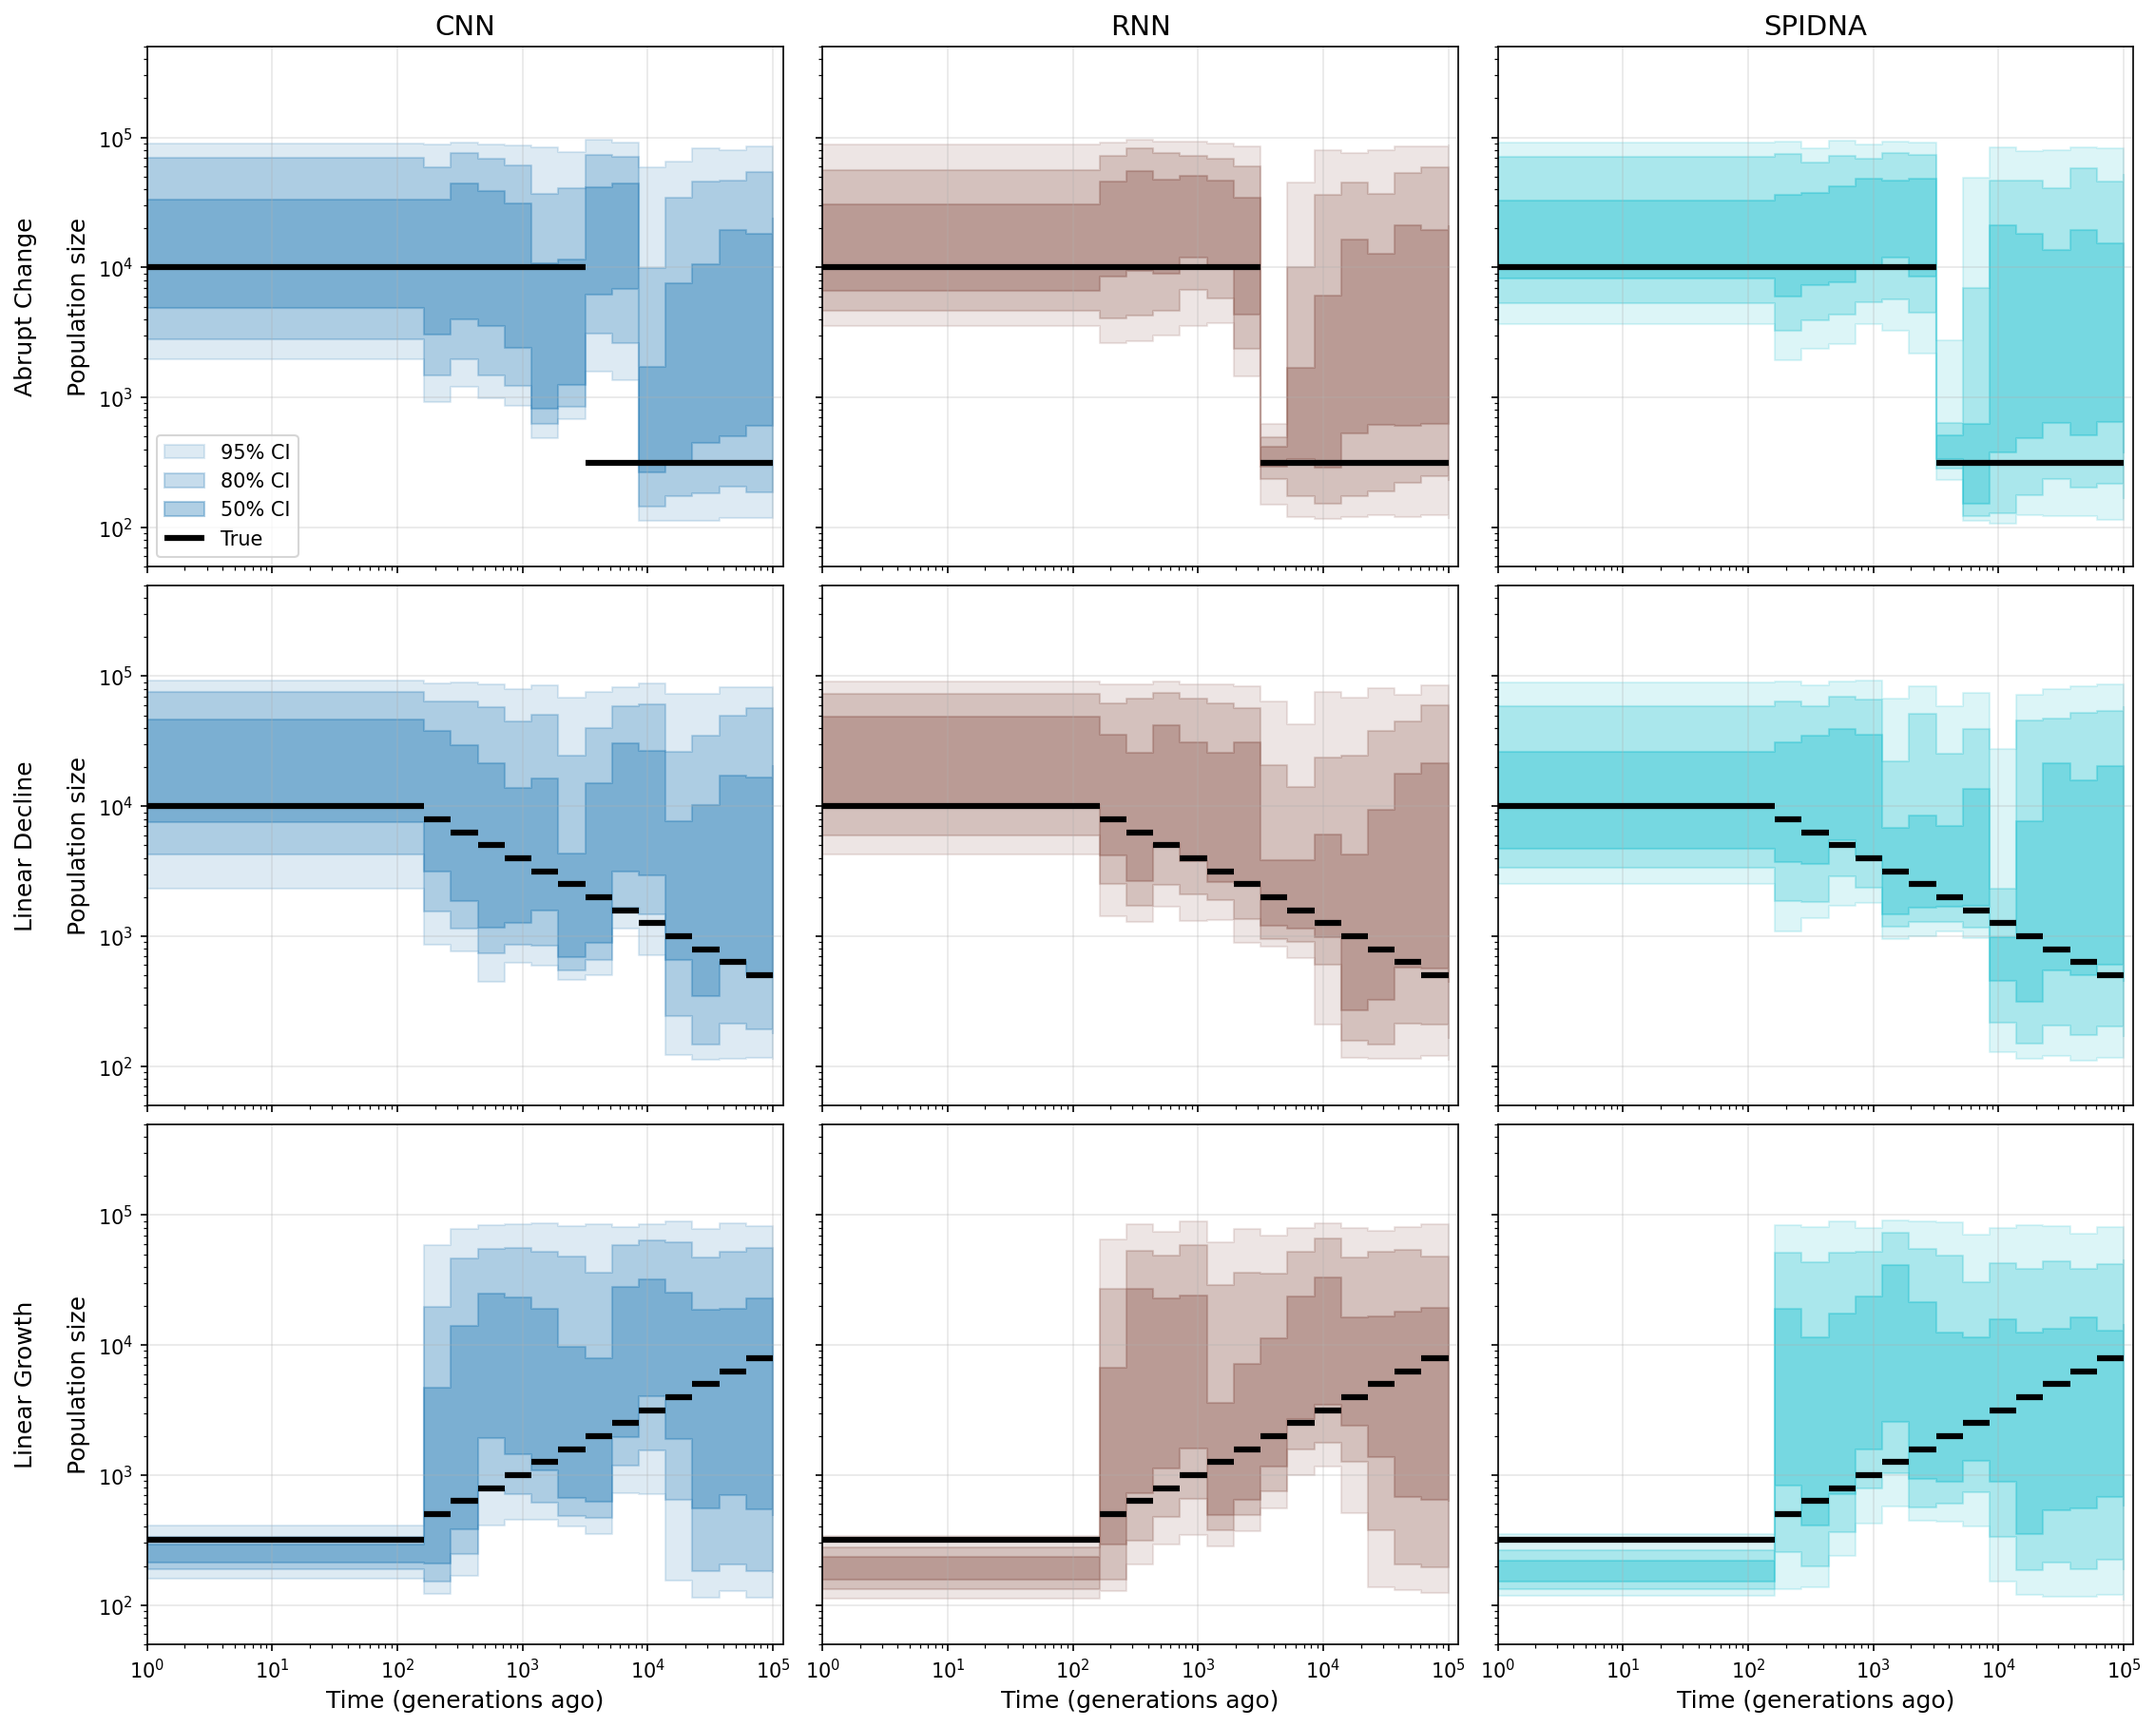
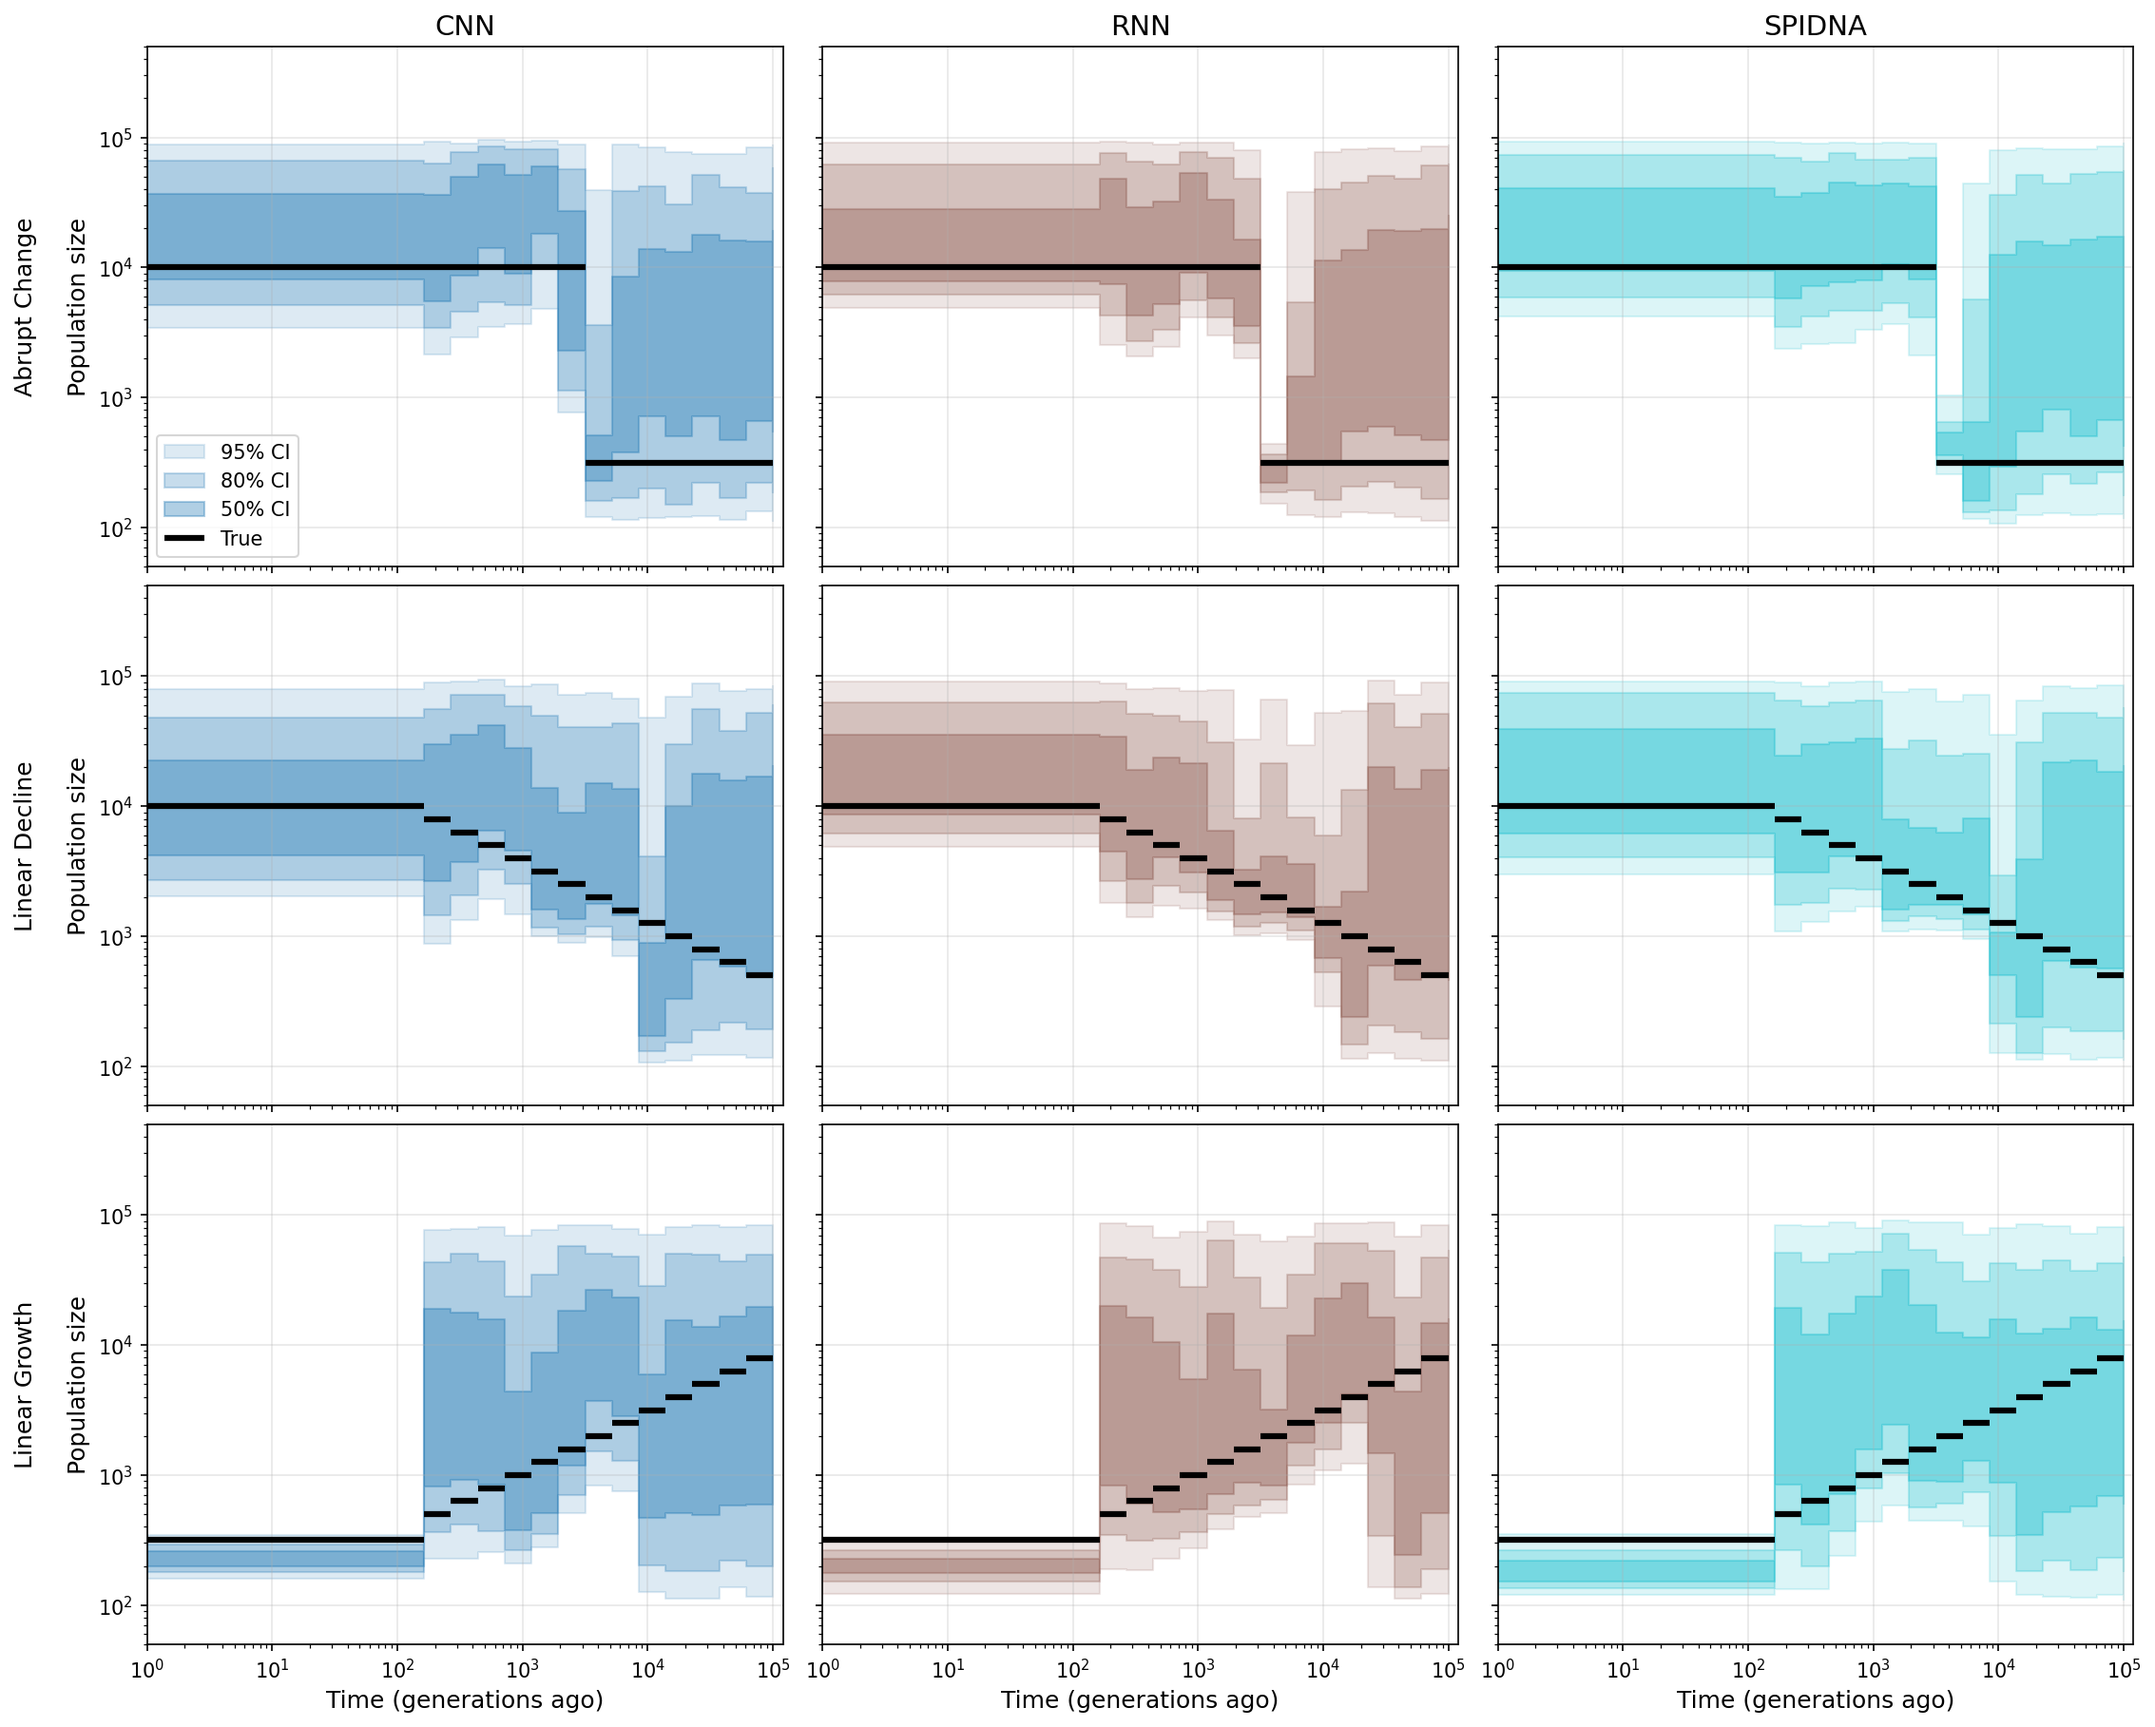
feat: replaced batch norm with layer norm in the exchangeable CNN This change stabilizes training
- additionally checked in some minor changes in the priors on the variable population size model
- new 3x3 variable population size model figure checked in as checkpoint

diff --git a/workflow/scripts/embedding_networks.py b/workflow/scripts/embedding_networks.py
@@ -29,6 +29,19 @@ class RNN(nn.Module):
         return self.mlp(hn)
 
 
+class FrozenLayerNorm(nn.Module):
+    """ 
+    Layer norm without learnable weights, that can be applied to tensors
+    of variable sizes. The batch dimension is assumed to be the first, so
+    that mean/variance are calculated over the remaining dimensions.
+    """
+    def __init__(self):
+        super().__init__()
+    
+    def forward(self, x): 
+        return F.layer_norm(x, x.shape[1:])
+
+
 # TODO: SBI has a built-in exchangeable layer, why not use this?
 class SymmetricLayer(nn.Module):
     """
@@ -123,9 +136,7 @@ class ExchangeableCNN(nn.Module):
             )
         )
         cnn_layers.append(self.activation())
-        cnn_layers.append(
-            nn.BatchNorm2d(num_features=self.outchannels1, track_running_stats=False)
-        )
+        cnn_layers.append(FrozenLayerNorm())
         cnn_layers.append(
             nn.Conv2d(
                 self.outchannels1,
@@ -135,9 +146,7 @@ class ExchangeableCNN(nn.Module):
             )
         )
         cnn_layers.append(self.activation())
-        cnn_layers.append(
-            nn.BatchNorm2d(num_features=self.outchannels2, track_running_stats=False)
-        )
+        cnn_layers.append(FrozenLayerNorm())
 
         self.cnn = nn.Sequential(*cnn_layers)
         self.symmetric = SymmetricLayer(axis=2, func=symmetric_func)

diff --git a/workflow/scripts/ts_simulators.py b/workflow/scripts/ts_simulators.py
@@ -160,7 +160,7 @@ class VariablePopulationSize(BaseSimulator):
         "num_time_windows": 3,
         # RANDOM PARAMETERS (UNIFORM)
         "pop_sizes": [1e2, 1e5],      # Range for population sizes (log10 space)
-        "recomb_rate": [1e-9, 1e-7],  # Range for recombination rate
+        "recomb_rate": [1e-9, 2e-8],  # Range for recombination rate
         # TIME PARAMETERS
         "max_time": 100000,  # Maximum time for population events
         "time_rate": 0.1,    # Rate at which time changes across windows
